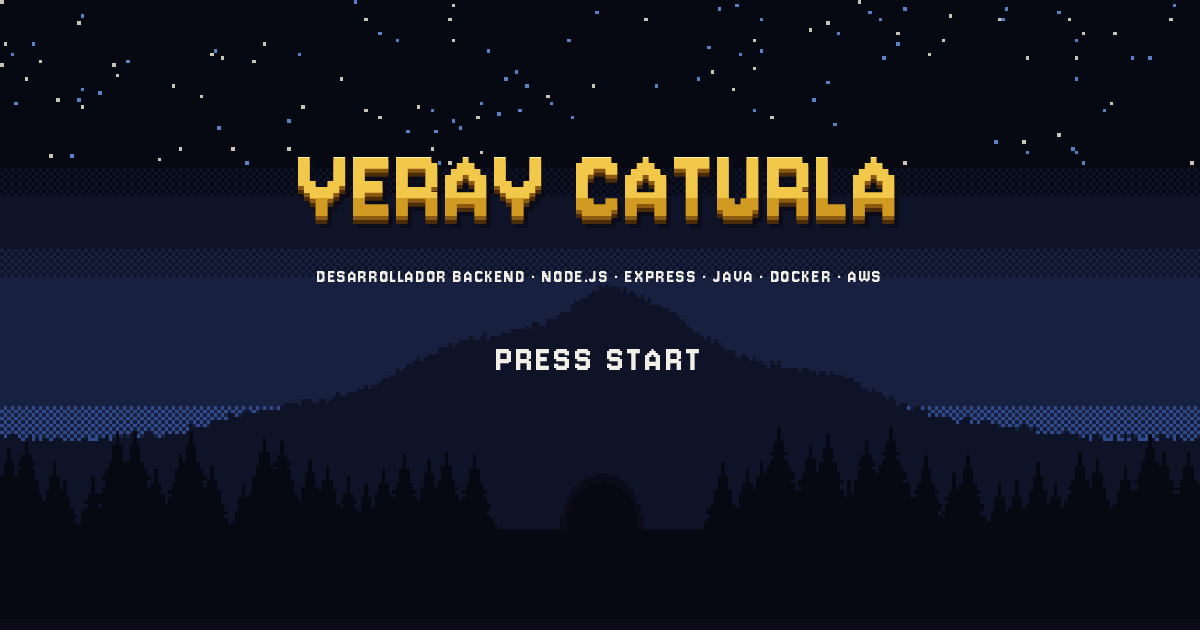
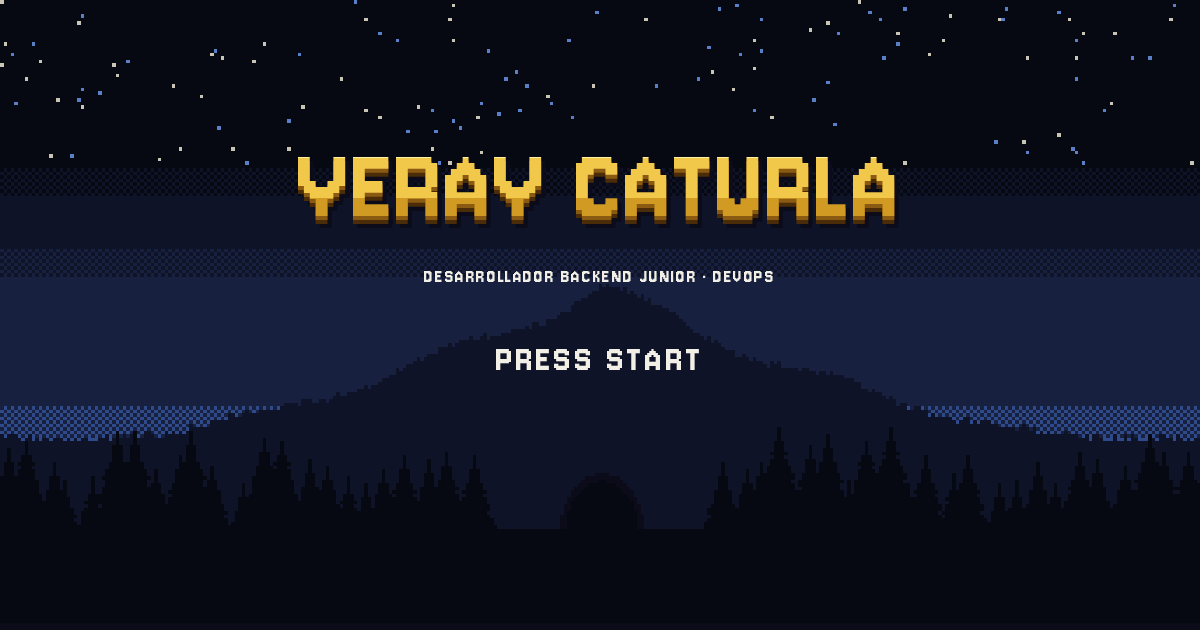
feat(title): show only the role and DevOps in the credits line

Changed region(s): [[0.2467, 0.4222, 0.74, 0.4524]]

diff --git a/src/content/es.ts b/src/content/es.ts
@@ -25,7 +25,7 @@ export const ES: Content = {
   },
   title: {
     name: 'YERAY CATURLA',
-    credits: 'DESARROLLADOR BACKEND · NODE.JS · EXPRESS · JAVA · DOCKER · AWS',
+    credits: 'DESARROLLADOR BACKEND JUNIOR · DEVOPS',
     press: 'PRESS START',
     skip: 'SKIP INTRO',
   },

diff --git a/src/content/en.ts b/src/content/en.ts
@@ -25,7 +25,7 @@ export const EN: Content = {
   },
   title: {
     name: 'YERAY CATURLA',
-    credits: 'BACKEND DEVELOPER · NODE.JS · EXPRESS · JAVA · DOCKER · AWS',
+    credits: 'JUNIOR BACKEND DEVELOPER · DEVOPS',
     press: 'PRESS START',
     skip: 'SKIP INTRO',
   },
